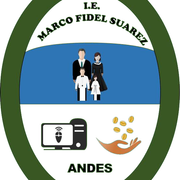
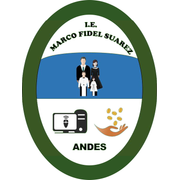
fix(login): que el escudo no se corte
El JPG original venia recortado: el aro oval se salia del lienzo arriba y abajo. Se cierra el ovalo (554x736) y se dimensiona por alto.

diff --git a/src/login.css b/src/login.css
@@ -28,7 +28,7 @@ body:has(.gate-page){margin:0;background:var(--bg)}
 .gate-id{position:relative;display:flex;flex-direction:column;align-items:center;text-align:center;padding:var(--s-2) 0}
 .gate-rings{position:absolute;z-index:-1;top:50%;left:50%;width:min(420px,92%);height:auto;transform:translate(-50%,-50%);color:var(--verde);opacity:.14;pointer-events:none}
 .gate-crest{display:block;margin-bottom:var(--s-5)}
-.gate-crest img{display:block}
+.gate-crest img{display:block;max-width:100%}
 .gate-inst{margin:0;font-size:var(--fs-sm);letter-spacing:.1em;text-transform:uppercase;color:var(--g-muted);font-weight:600;display:flex;flex-direction:column;gap:var(--s-1)}
 .gate-inst strong{font-family:var(--g-display);font-size:clamp(1.7rem,3.4vw,2.4rem);letter-spacing:-.01em;text-transform:none;color:var(--g-verde);font-weight:700;line-height:1.1}
 .gate-place{margin:var(--s-3) 0 0;display:inline-flex;align-items:center;gap:10px;font-size:var(--fs-md);font-weight:600;color:var(--g-ink-2)}
@@ -96,7 +96,7 @@ body:has(.gate-page){margin:0;background:var(--bg)}
 
 @media (max-width:859px){
   .gate-id{padding-bottom:0}
-  .gate-crest img{width:112px!important;height:112px!important}
+  .gate-crest img{width:auto!important;height:140px!important}
   .gate-card{padding-top:30px}
 }
 @media (pointer:coarse){.g-btn,.gate-btn{min-height:var(--tap)}}

diff --git a/src/components/Crest.tsx b/src/components/Crest.tsx
@@ -1,6 +1,9 @@
+/** Proporción ancho/alto del escudo completo (554x736). */
+const RATIO = 554 / 736;
+
 type Props = { size?: number; className?: string };
 
-/** Escudo institucional (PNG/WebP con fondo transparente, proporción 1:1 sin deformar). */
+/** Escudo institucional (PNG/WebP con fondo transparente, óvalo completo 554x736: se dimensiona por el alto y el ancho sale de la proporción). */
 export function Crest({ size = 160, className }: Props) {
   return (
     <picture className={className}>
@@ -8,10 +11,10 @@ export function Crest({ size = 160, className }: Props) {
       <img
         src="/escudo.png"
         alt="Escudo de la Institución Educativa Marco Fidel Suárez"
-        width={size}
+        width={Math.round(size * RATIO)}
         height={size}
         decoding="async"
-        style={{ width: size, height: size, objectFit: "contain" }}
+        style={{ width: "auto", height: size, maxWidth: "100%", objectFit: "contain" }}
       />
     </picture>
   );

diff --git a/src/components/GateShell.tsx b/src/components/GateShell.tsx
@@ -23,7 +23,7 @@ export function GateShell({ children, compact = false }: Props) {
               <ellipse cx="200" cy="260" rx="126" ry="166" />
             </g>
           </svg>
-          <Crest size={compact ? 112 : 176} className="gate-crest" />
+          <Crest size={compact ? 128 : 208} className="gate-crest" />
           <p className="gate-inst">
             Institución Educativa
             <strong>Marco Fidel Suárez</strong>
